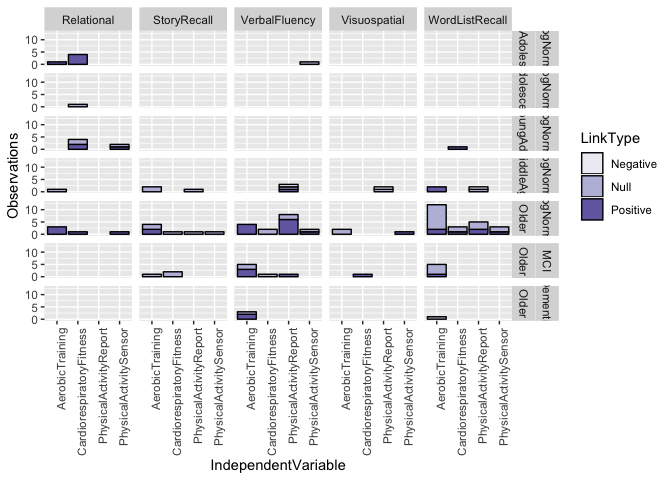
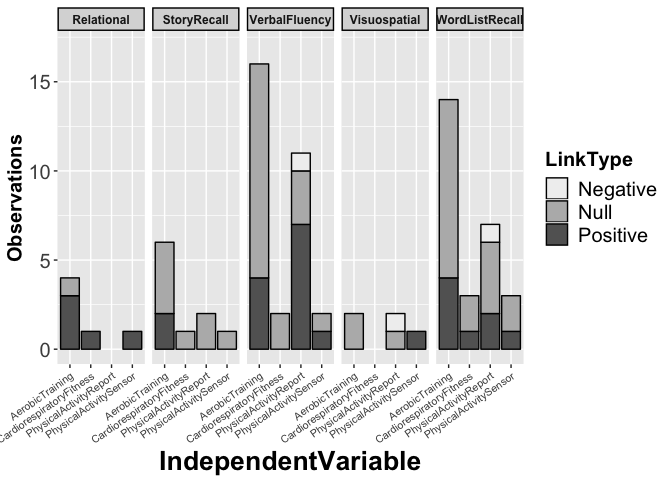
submitted version for fig1 nb

diff --git a/ExerciseRelationsBar.md b/ExerciseRelationsBar.md
@@ -1,9 +1,9 @@
 R Notebook for visualizing exercise effects on learning and memory
 ================
 
--   [add cross-sectional data](#add-cross-sectional-data)
--   [plot interventions and cross-sectional together](#plot-interventions-and-cross-sectional-together)
--   [plot relational memory by task and across age groups](#plot-relational-memory-by-task-and-across-age-groups)
+-   [Cross-sectional data](#cross-sectional-data)
+-   [Plot interventions and cross-sectional together](#plot-interventions-and-cross-sectional-together)
+-   [Plot relational memory by task and across age groups](#plot-relational-memory-by-task-and-across-age-groups)
 
 **Goal**: Display links between exercise independent variables and cognition dependent variables in the form of a stacked bar graph that indicates number of studies with each outcome (dependent) and proportion positive or null results. This approach is similar to the Beydoun et al., 2014 meta-analysis which summarizes results based on the result of testing the hypothesis that physical activity reduces cognitive decline and dementia in cross-sectional and prospective studies.
 
@@ -131,8 +131,8 @@ interventions$DependentConstruct <- ifelse(interventions$DependentConstruct == "
 interventions$CognitiveStatus<-factor(interventions$CognitiveStatus,levels=c("CognitivelyNormal","MCI","Dementia"),labels=c("CogNormal","MCI","Dementia"))
 ```
 
-add cross-sectional data
-========================
+Cross-sectional data
+====================
 
 ``` r
 crossx = read.csv("CrossSectionalOutcomesR.csv", header = TRUE, sep = ",")
@@ -169,7 +169,7 @@ crossx$DependentConstruct <- ifelse(crossx$DependentConstruct == "AVLT","WordLis
 crossx$CognitiveStatus<-factor(crossx$CognitiveStatus,levels=c("CognitivelyNormal","MCI","Dementia"),labels=c("CogNormal","MCI","Dementia"))
 ```
 
-plot interventions and cross-sectional together
+Plot interventions and cross-sectional together
 ===============================================
 
 ``` r
@@ -196,28 +196,6 @@ levels(overall_plot$AgeGroup)
     ## [5] "Older"
 
 ``` r
-ggplot(data=overall_plot)+
-  geom_bar(mapping=aes(x=IndependentVariable,fill=LinkType),color="black") +
-  scale_fill_brewer(palette="Purples") +
-  labs(y="Observations") +
-  ylim(0,13) +
-  theme(axis.text.x = element_text(angle = 90, hjust = 1)) +
-  facet_grid(~CognitiveStatus~AgeGroup~DependentConstruct)
-```
-
-    ## Warning: Removed 1 rows containing missing values (geom_bar).
-
-![](ExerciseRelationsBar_files/figure-markdown_github/unnamed-chunk-7-1.png)
-
-``` r
-ggsave(filename="LiteratureMemoryOutcomes.png",width=8,units=c("in"),dpi=300)
-```
-
-    ## Saving 8 x 5 in image
-
-    ## Warning: Removed 1 rows containing missing values (geom_bar).
-
-``` r
 data_in_fig1<-subset(overall_plot,CognitiveStatus=="CogNormal")
 write.csv(data_in_fig1,"data_in_fig1.csv", row.names=FALSE, na="")
 
@@ -237,7 +215,7 @@ ggplot(data=subset(overall_plot,CognitiveStatus=="CogNormal" & AgeGroup=="Older"
         strip.background = element_rect(colour="black", size=1))
 ```
 
-![](ExerciseRelationsBar_files/figure-markdown_github/unnamed-chunk-8-1.png)
+![](ExerciseRelationsBar_files/figure-markdown_github/unnamed-chunk-7-1.png)
 
 ``` r
 ggsave(filename="LiteratureMemoryOutcomes.eps",width=8,units=c("in"),dpi=900)
@@ -245,7 +223,7 @@ ggsave(filename="LiteratureMemoryOutcomes.eps",width=8,units=c("in"),dpi=900)
 
     ## Saving 8 x 5 in image
 
-plot relational memory by task and across age groups
+Plot relational memory by task and across age groups
 ====================================================
 
 ``` r
@@ -267,7 +245,7 @@ ggplot(data=subset(overall_plot_rel,CognitiveStatus=="CogNormal"))+
         strip.background = element_rect(colour="black", size=1))
 ```
 
-![](ExerciseRelationsBar_files/figure-markdown_github/unnamed-chunk-9-1.png)
+![](ExerciseRelationsBar_files/figure-markdown_github/unnamed-chunk-8-1.png)
 
 ``` r
 ggsave(filename="LiteratureMemoryOutcomes-relational.pdf",width=8,units=c("in"),dpi=900)
